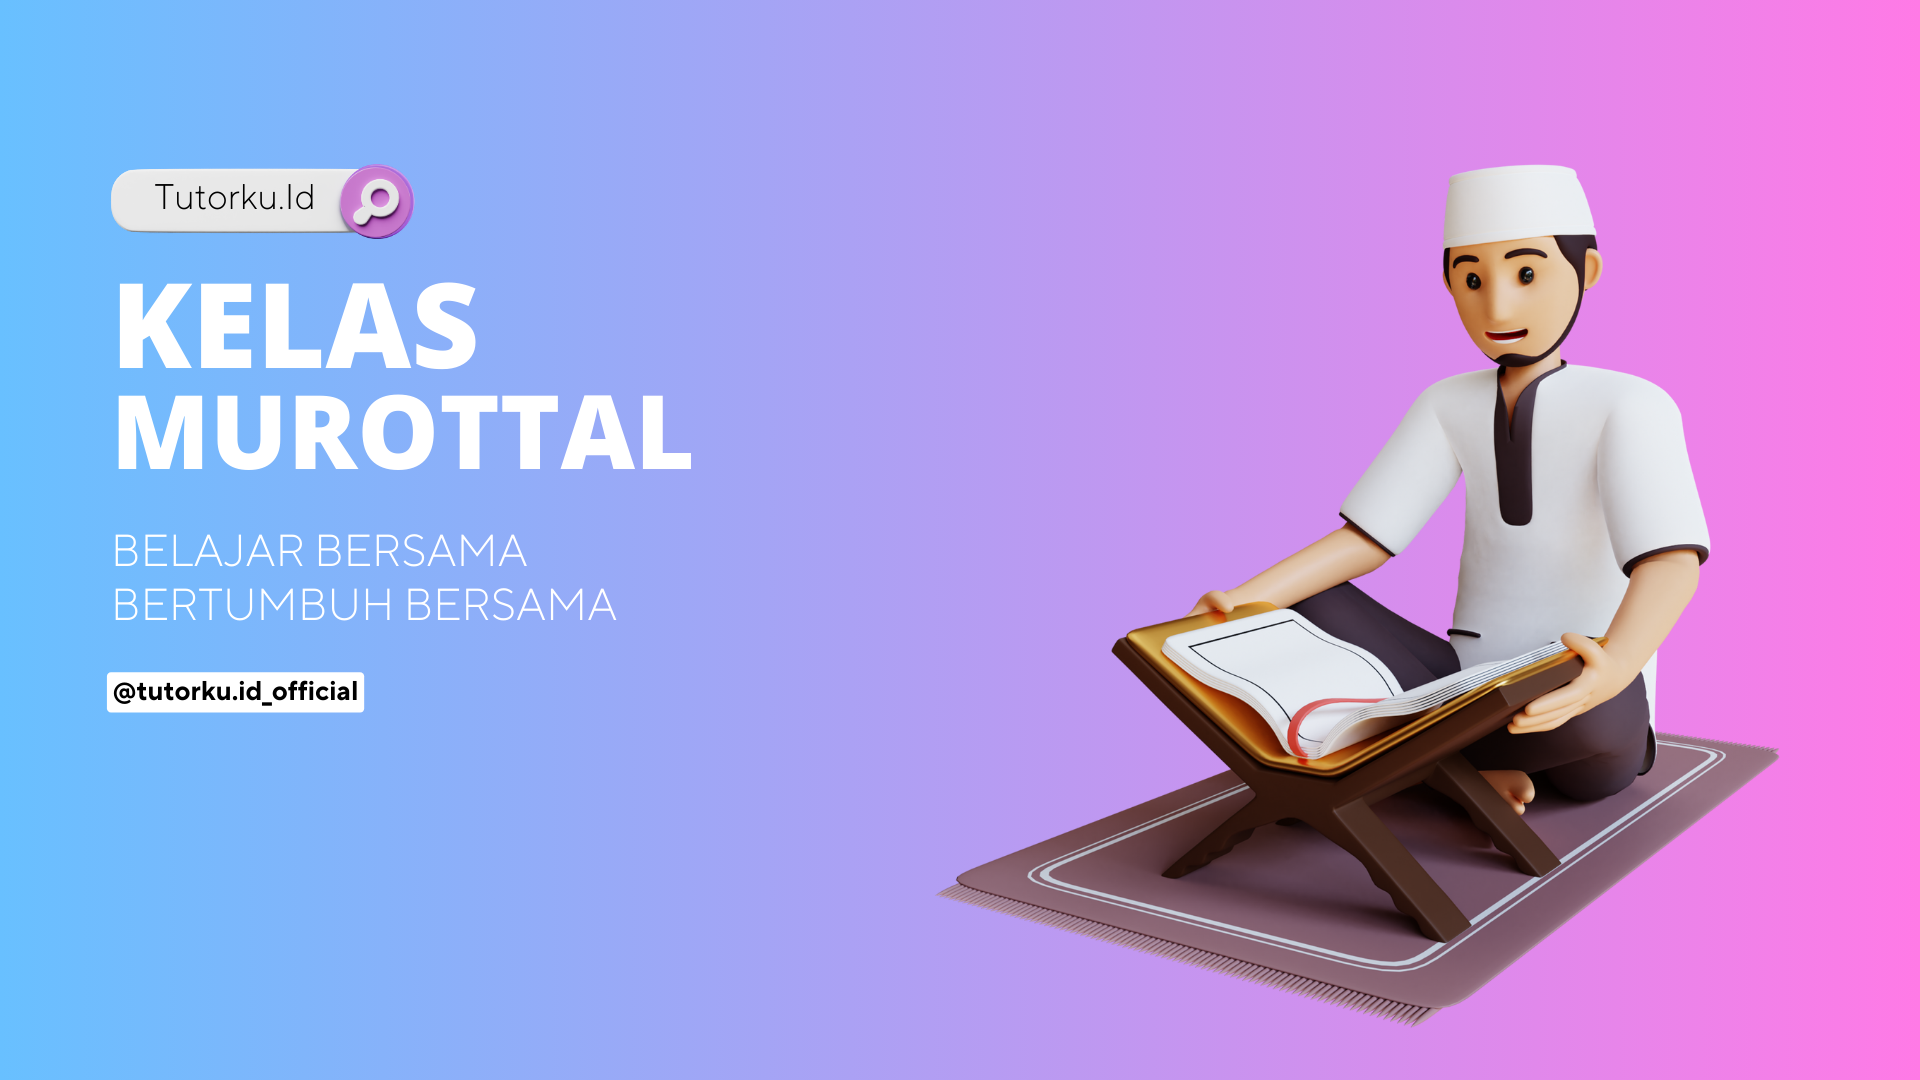
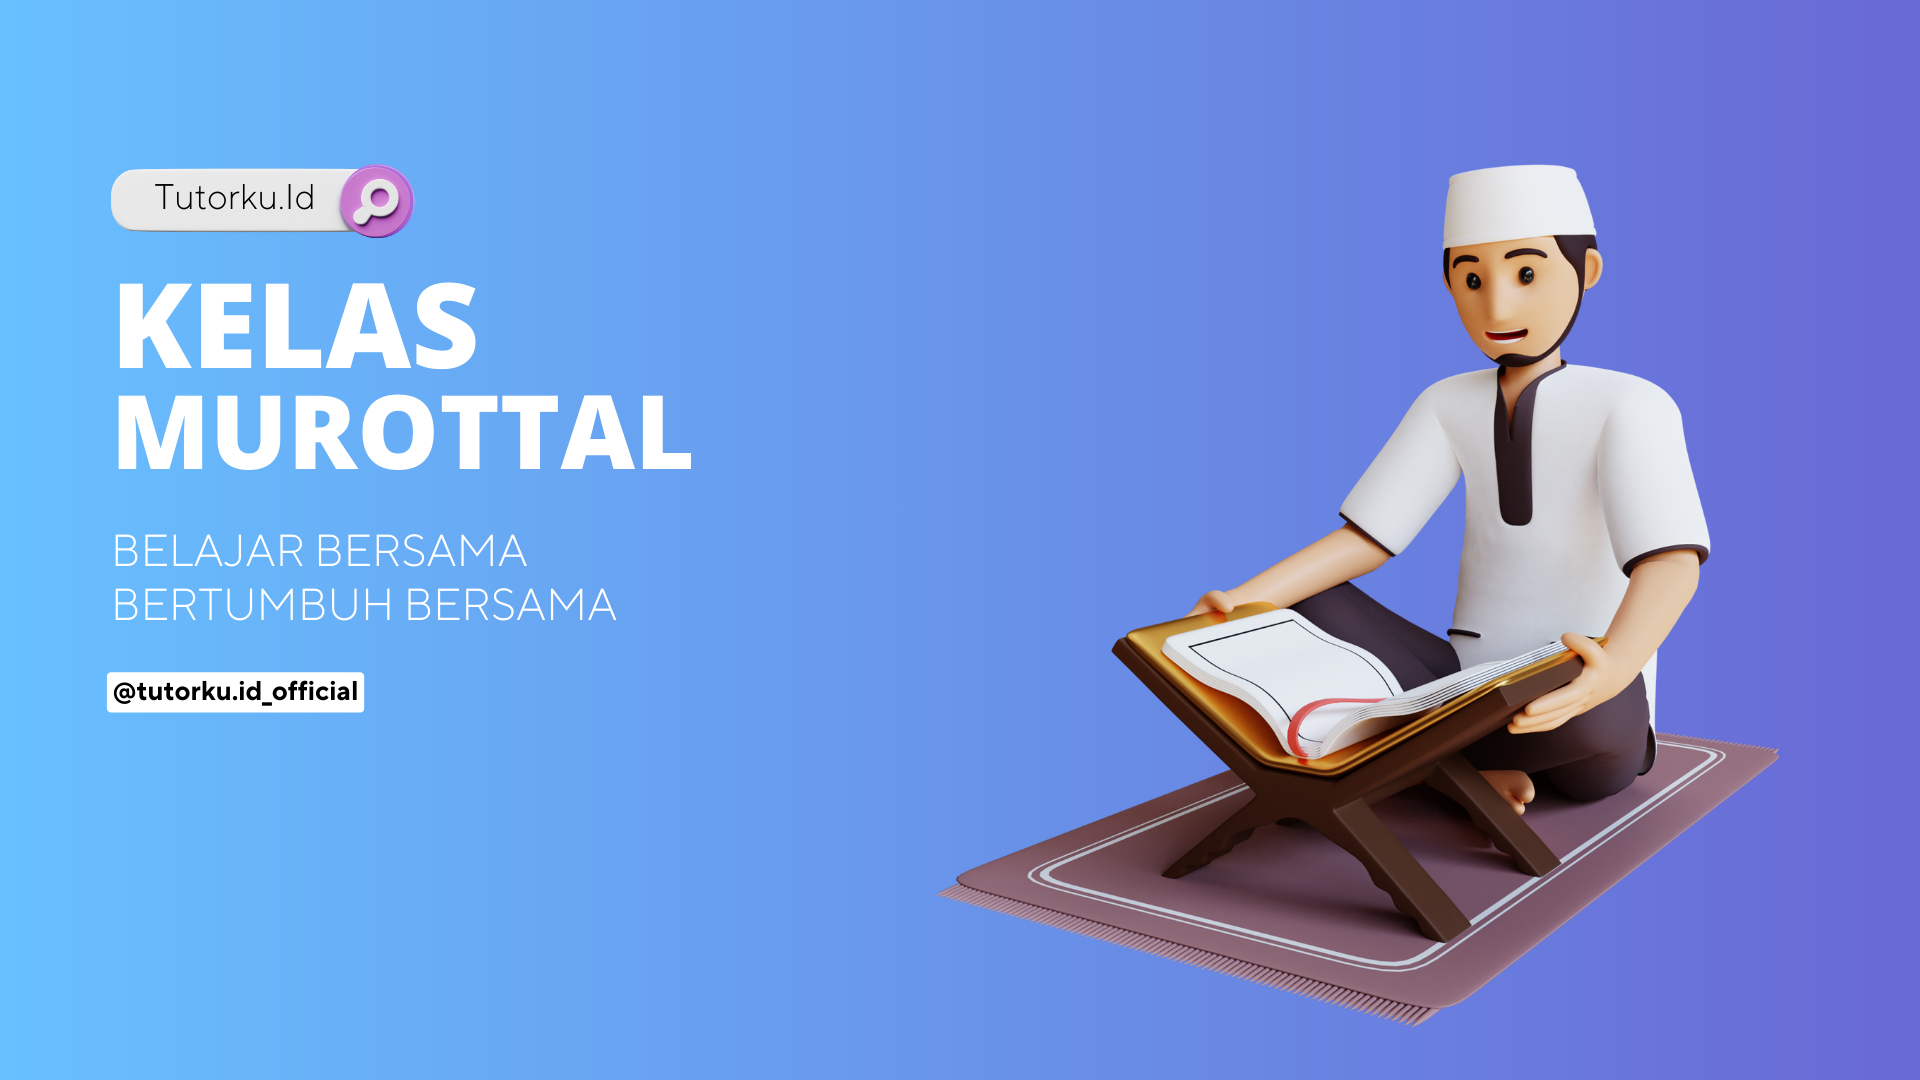
1.3

diff --git a/product.html b/product.html
@@ -17,7 +17,7 @@
 
 <body>
     <nav class="nnavbar navbar navbar-expand-lg bg-body-tertiary"
-        style="  background: linear-gradient(to right, #68C0FF, #FF7AE6);">
+        style="  background: linear-gradient(to right, #68C0FF, #6968D4);">
         <div class="container-fluid">
             <a class="navbar-brand" href="sign.html" style="font-family: 'DM Sans', sans-serif;">Sign-In</a>
             <button class="navbar-toggler" type="button" data-bs-toggle="collapse" data-bs-target="#navbarNav"
@@ -86,11 +86,10 @@
     <!-- content 3 end -->
 
     <!-- produk -->
-    <div id="product">
-        <p class="fs-2" style="font-family: 'Poppins'; text-align: center; padding-top: 40px;">Daftar Kelas
-        </p>
-    </div>
+    <div style="padding: 30px;"></div>
     <div class="py-3" style="background: linear-gradient(to right, #68C0FF, #FFf); text-align: justify;">
+        <p class="fs-2" style="font-family: 'Poppins'; text-align: center;">Daftar Kelas
+        </p>
         <div class="card-body">
             <h5 class="mx-2 card-title">Kelas Online dan Offline</h5>
             <p class="mx-2 card-text" style="font-size: 15px;">Di sini, kami menawarkan dua opsi pembelajaran: kelas online
@@ -176,11 +175,9 @@
         </div>
     </div>
 
-    <div id="product">
-        <p class="fs-2" style="font-family: 'Poppins'; text-align: center; padding-top: 40px;">Private Tutor
-        </p>
-    </div>
     <div class="py-3" style="background: linear-gradient(to right, #68C0FF, #FFf);">
+        <p class="fs-2" style="font-family: 'Poppins'; text-align: center;">Private Tutor
+        </p>
         <div class="card-body">
             <h5 class="mx-2 card-title">Kelas Online dan Offline</h5>
             <p class="mx-2 card-text" style="font-size: 15px; text-align: justify;">Tutorku.Id juga menyediakan layanan private tutor untuk Anda yang berminat meningkatkan pemahaman dan keterampilan Anda dalam berbagai bidang. Dengan private tutor, Anda akan mendapatkan sejumlah manfaat yang signifikan. Tutor pribadi akan memberikan perhatian khusus kepada Anda, memfasilitasi pembelajaran yang lebih intensif, dan membantu Anda mengatasi kesulitan atau hambatan yang mungkin Anda hadapi. Keuntungan lainnya termasuk fleksibilitas waktu belajar, penyesuaian kurikulum sesuai kebutuhan pribadi, dan ruang bagi diskusi mendalam. Dengan layanan private tutor kami, kami berkomitmen untuk membantu Anda mencapai tujuan belajar Anda secara efektif dan efisien.</p>
@@ -384,7 +381,7 @@
 
 
     <!-- akhiran -->
-    <footer style="  background: linear-gradient(to right, #68C0FF, #FF7AE6);">
+    <footer style="  background: linear-gradient(to right, #68C0FF, #6968D4);">
         <div class="fs-2" style="padding: 20px;">
             <p style="font-size: large;">Contact</p>
             <p style="font-size: 15px;">Email: @tutorkuid99@gmail.com<br>

diff --git a/about.html b/about.html
@@ -17,7 +17,7 @@
 
 <body>
     <nav class="nnavbar navbar navbar-expand-lg bg-body-tertiary"
-        style="  background: linear-gradient(to right, #68C0FF, #FF7AE6);">
+        style="  background: linear-gradient(to right, #68C0FF, #6968D4);">
         <div class="container-fluid">
             <a class="navbar-brand" href="sign.html" style="font-family: 'DM Sans', sans-serif;">Sign-In</a>
             <button class="navbar-toggler" type="button" data-bs-toggle="collapse" data-bs-target="#navbarNav"
@@ -34,7 +34,7 @@
                         <a class="nav-link active" href="#about" style="font-family: 'DM Sans', sans-serif;">About</a>
                     </li>
                     <li class="nav-item">
-                        <a class="nav-link" href="#product" style="font-family: 'DM Sans', sans-serif;">Product</a>
+                        <a class="nav-link" href="product.html" style="font-family: 'DM Sans', sans-serif;">Product</a>
                     </li>
                     <li class="nav-item">
                         <a class="nav-link" href="index.html" style="font-family: 'DM Sans', sans-serif;">News</a>
@@ -123,7 +123,7 @@
                 </div>
             </div>
             <!-- conten layanan end -->
-            <footer style="  background: linear-gradient(to right, #68C0FF, #FF7AE6);">
+            <footer style="  background: linear-gradient(to right, #68C0FF, #6968D4);">
                 <div class="fs-2" style="padding: 20px;">
                     <p style="font-size: large;">Contact</p>
                     <p style="font-size: 15px;">Email: @tutorkuid99@gmail.com<br>

diff --git a/index.html b/index.html
@@ -17,7 +17,7 @@
 
 <body>
     <nav class="nnavbar navbar navbar-expand-lg bg-body-tertiary"
-        style="  background: linear-gradient(to right, #68C0FF, #FF7AE6);">
+        style="  background: linear-gradient(to right, #68C0FF, #6968D4);">
         <div class="container-fluid">
             <a class="navbar-brand" href="sign.html" style="font-family: 'DM Sans', sans-serif;">Sign-In</a>
             <button class="navbar-toggler" type="button" data-bs-toggle="collapse" data-bs-target="#navbarNav"
@@ -27,7 +27,7 @@
             <div class="collapse navbar-collapse" id="navbarNav">
                 <ul class="navbar-nav">
                     <li class="nav-item">
-                        <a class="nav-link active" aria-current="page" href="#"
+                        <a class="nav-link active" aria-current="page" href="index.html"
                             style="font-family: 'DM Sans', sans-serif;">Home</a>
                     </li>
                     <li class="nav-item">
@@ -387,7 +387,7 @@
 
 
     <!-- akhiran -->
-    <footer style="  background: linear-gradient(to right, #68C0FF, #FF7AE6);">
+    <footer style="  background: linear-gradient(to right, #68C0FF, #6968D4);">
         <div class="fs-2" style="padding: 20px;">
             <p style="font-size: large;">Contact</p>
             <p style="font-size: 15px;">Email: @tutorkuid99@gmail.com<br>

diff --git a/daftar.html b/daftar.html
@@ -40,7 +40,7 @@
         }
 
         .online {
-            background: linear-gradient(to right, #68C0FF, #FF7AE6);
+            background: linear-gradient(to right, #68C0FF, #6968D4);
         }
 
         .offline {
@@ -76,7 +76,7 @@
 <body>
     <!-- navbar -->
     <nav class="nnavbar navbar navbar-expand-lg bg-body-tertiary"
-        style="  background: linear-gradient(to right, #68C0FF, #FF7AE6);">
+        style="  background: linear-gradient(to right, #68C0FF, #6968D4);">
         <div class="container-fluid">
             <a class="navbar-brand" href="sign.html" style="font-family: 'DM Sans', sans-serif;">Sign-In</a>
             <button class="navbar-toggler" type="button" data-bs-toggle="collapse" data-bs-target="#navbarNav"
@@ -413,7 +413,7 @@
     <!-- penilaian end -->
 
     <!-- akhiran -->
-    <footer style="  background: linear-gradient(to right, #68C0FF, #FF7AE6);">
+    <footer style="  background: linear-gradient(to right, #68C0FF, #6968D4);">
         <div class="fs-2" style="padding: 20px;">
             <p style="font-size: large;">Contact</p>
             <p style="font-size: 15px;">Email: @tutorkuid99@gmail.com<br>

diff --git a/sign.html b/sign.html
@@ -62,7 +62,7 @@
         <form action="#" method="post">
             <input type="text" name="username" placeholder="Username" required>
             <input type="password" name="password" placeholder="Password" required>
-            <a href="error.html" style="background: linear-gradient(to right, #68C0FF, #FF7AE6);"" type="submit">Login</a>
+            <a href="error.html" style="background: linear-gradient(to right, #68C0FF, #6968D4);"" type="submit">Login</a>
         </form>
         <p style="font-size: 15px;">Belum memiliki akun? <a href="signup.html">Daftar</a></p>
     </div>

diff --git a/signup.html b/signup.html
@@ -62,7 +62,7 @@
         <form action="#" method="post">
             <input type="text" name="username" placeholder="Username" required>
             <input type="password" name="password" placeholder="Password" required>
-            <a href="error.html" style="background: linear-gradient(to right, #68C0FF, #FF7AE6);"" type="submit">Login</a>
+            <a href="error.html" style="background: linear-gradient(to right, #68C0FF, #6968D4);"" type="submit">Login</a>
         </form>
         <p style="font-size: 15px;">Sudah memiliki akun <a href="sign.html">Sign-in</a></p>
     </div>

diff --git a/error.html b/error.html
@@ -57,7 +57,7 @@
 </head>
 <!-- navbar -->
 <nav class="nnavbar navbar navbar-expand-lg bg-body-tertiary"
-        style="  background: linear-gradient(to right, #68C0FF, #FF7AE6);">
+        style="  background: linear-gradient(to right, #68C0FF, #6968D4);">
         <div class="container-fluid">
             <a class="navbar-brand nav-link active" href="sign.html" style="font-family: 'DM Sans', sans-serif;">Sign-In</a>
             <button class="navbar-toggler" type="button" data-bs-toggle="collapse" data-bs-target="#navbarNav"

diff --git a/styles.css b/styles.css
@@ -40,7 +40,7 @@
     top: 0;
     left: 0;
     inset: 0;
-    background: linear-gradient(45deg, #f06, #3cf, #f06);
+    background: linear-gradient(to right, #68C0FF, #6968D4);
     background-size: 200%;
     background-position: 0 0;
     z-index: -1;
@@ -54,7 +54,7 @@
     top: 0;
     left: 0;
     inset: 0;
-    background: linear-gradient(45deg, #f06, #3cf, #f06);
+    background: linear-gradient(to right, #68C0FF, #6968D4);
     z-index: -1;
     background-size: 200%;
     background-position: 0 0;
